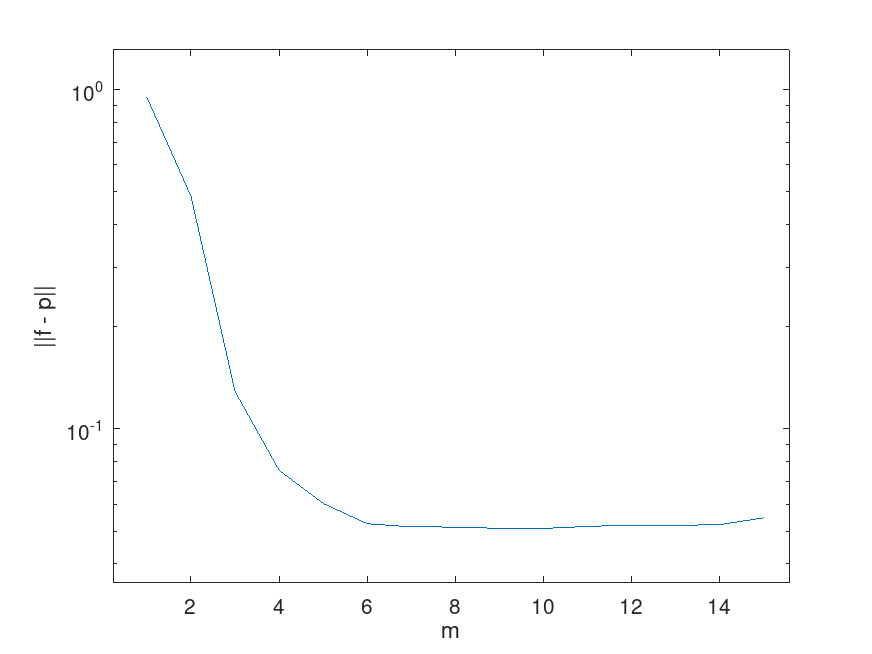
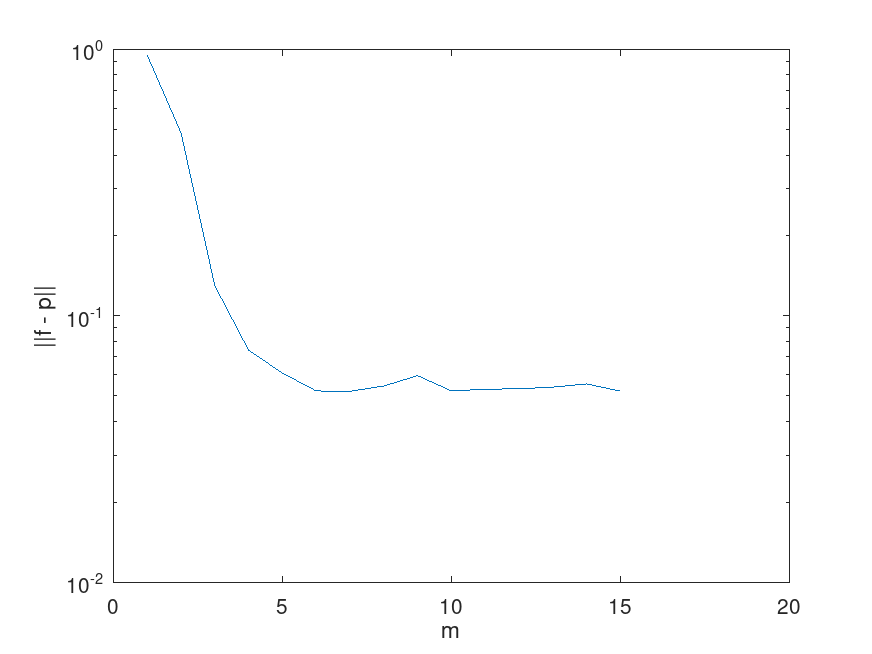
Change plot to semilogy where is necessary

diff --git a/capitolo5/es27.tex b/capitolo5/es27.tex
@@ -9,8 +9,7 @@ e tolleranze $tol$ = $10^{-2}$, $10^{-3}$, $10^{-4}$, $10^{-5}$, $10^{-6}$.
 \newline \textbf{Soluzione:}
 
 Eseguendo lo script \nameref{cod:27} si ottengono i risultati contenuti nella
-tabella \ref{tab:27} e nella figura \ref{fig:es27}, che rappresenta il
-logaritmo naturale di numero di valutazioni funzionali.
+tabella \ref{tab:27} e nella figura \ref{fig:es27}.
 \begin{table}[ht]
     \centering
     \renewcommand\arraystretch{2}
@@ -35,7 +34,7 @@ logaritmo naturale di numero di valutazioni funzionali.
 \begin{figure}[!ht]
     \centering
     \includegraphics[width=16cm,height=10cm,keepaspectratio]{capitolo5/es27_figure.png}
-    \caption{Logaritmo di numero di valutazioni funzionali per funzione \lstinline{composita} rispetto a grado}
+    \caption{Numero di valutazioni funzionali rispetto a grado per funzione \lstinline{composita}}
     \label{fig:es27}
 \end{figure}
 \FloatBarrier

diff --git a/capitolo5/es30.tex b/capitolo5/es30.tex
@@ -8,8 +8,7 @@ con tolleranze $tol$ = $10^{-2}$, $10^{-3}$, $10^{-4}$, $10^{-5}$, $10^{-6}$.
 \newline \textbf{Soluzione:}
 
 Eseguendo lo script \nameref{cod:30} si ottengono i risultati contenuti nella
-tabella \ref{tab:30} e nella figura \ref{fig:es30}, che rappresenta il
-logaritmo naturale di numero di valutazioni funzionali.
+tabella \ref{tab:30} e nella figura \ref{fig:es30}.
 \begin{table}[ht]
     \centering
     \renewcommand\arraystretch{2}
@@ -28,7 +27,7 @@ logaritmo naturale di numero di valutazioni funzionali.
 \begin{figure}[!ht]
     \centering
     \includegraphics[width=16cm,height=10cm,keepaspectratio]{capitolo5/es30_figure.png}
-    \caption{Logaritmo di numero di valutazioni funzionali per approssimare l'integrale}
+    \caption{Numero di valutazioni funzionali rispetto tolleranza per approssimare l'integrale}
     \label{fig:es30}
 \end{figure}
 \FloatBarrier

diff --git a/capitolo5/es25.tex b/capitolo5/es25.tex
@@ -7,7 +7,7 @@ tabulando (in modo significativo) il corrispondente errore di quadratura (risolv
 \newline \textbf{Soluzione:}
 
 Eseguendo lo script \nameref{cod:25} si ottengono i risultati contenuti nella tabella \ref{tab:25}
-e nella figura \ref{fig:es25}, che rappresenta il logaritmo di errore di interpolazione.
+e nella figura \ref{fig:es25}.
 \begin{table}[ht]
     \centering
     \renewcommand\arraystretch{2}
@@ -32,7 +32,7 @@ e nella figura \ref{fig:es25}, che rappresenta il logaritmo di errore di interpo
 \begin{figure}[!ht]
     \centering
     \includegraphics[width=16cm,height=10cm,keepaspectratio]{capitolo5/es25_figure.png}
-    \caption{Logaritmo naturale di errori di quadratura}
+    \caption{Errori di quadratura rispetto a grado per $I(f)$}
     \label{fig:es25}
 \end{figure}
 \FloatBarrier

diff --git a/capitolo4/es21.tex b/capitolo4/es21.tex
@@ -17,9 +17,7 @@ equidistanti nell'intervallo $[x0, xn]$.
 Eseguendo lo script \nameref{cod:21} si ottengono i risultati contenuti nella
 tabella \ref{tab:21_equidistant} e nella figura \ref{fig:es21_equidistant} per
 i valori equidistanti, e nella tabella \ref{tab:21_chebyshev} con figura
-\ref{fig:es21_chebyshev} per i punti di Chebyshev. Le figure rappresentano
-il logaritmo naturale di errore di interpolazione data eccessiva differenza tra
-alcuni valori.
+\ref{fig:es21_chebyshev} per i punti di Chebyshev.
 \begin{figure}[!ht]
     \centering
     \includegraphics[width=16cm,height=10cm,keepaspectratio]{capitolo4/es21_figure_equidistant.png}

diff --git a/capitolo4/es22.tex b/capitolo4/es22.tex
@@ -11,8 +11,7 @@ per $n = 5, 10, 15, 20, \dots, 50$. Commentare i risultati ottenuti.
 \newline \textbf{Soluzione:}
 
 Eseguendo lo script \nameref{cod:22} si ottengono i risultati contenuti nella tabella \ref{tab:22}
-e nella figura \ref{fig:es22}, che rappresenta il logaritmo di errore di interpolazione data
-eccessiva differenza tra alcuni valori.
+e nella figura \ref{fig:es22}.
 \begin{table}[ht]
     \centering
     \renewcommand\arraystretch{2}

diff --git a/matlab/capitolo4/es21.m b/matlab/capitolo4/es21.m
@@ -53,9 +53,9 @@ method = ["Lagrange"; "Newton"; "Hermite"; "spline0"; "spline"];
 for space = [EQU CHEB]
 
     figure();
-    plot(n, log(error_list(:, space:2:end)), "-o");
+    semilogy(n, error_list(:, space:2:end), "-o");
     xlabel('numero di punti');
-    ylabel('errore = e^{x}');
+    ylabel('errore');
     legend(method, 'Location', 'northwest');
 
 end

diff --git a/matlab/capitolo4/es22.m b/matlab/capitolo4/es22.m
@@ -31,9 +31,9 @@ end
 
 figure(1);
 method = ["spline0 sin"; "spline sin"; "spline0 cos"; "spline cos"];
-plot(n, log(error_list), "-o");
+semilogy(n, error_list, "-o");
 xlabel('numero di punti');
-ylabel('errore = e^{x}');
+ylabel('errore');
 legend(method, 'Location', 'southwest');
 
 disp(error_list);

diff --git a/matlab/capitolo5/es30.m b/matlab/capitolo5/es30.m
@@ -15,7 +15,7 @@ end
 disp(nevals);
 
 figure();
-plot(tols, log(nevals'), '-o');
+semilogy(tols, nevals', '-o');
 xlabel('toleranza');
-ylabel('iterazioni = e^{x}');
+ylabel('iterazioni');
 legend(['adattivo trapezi'; 'adattivo Simpson']);

diff --git a/matlab/capitolo5/es27.m b/matlab/capitolo5/es27.m
@@ -19,7 +19,7 @@ end
 disp(nevals);
 
 figure();
-plot(grades, log(nevals'), '-o');
+semilogy(grades, nevals', '-o');
 xlabel('grado');
-ylabel('iterazioni = e^{x}');
+ylabel('iterazioni');
 legend(num2str(tols'));

diff --git a/matlab/capitolo5/es25.m b/matlab/capitolo5/es25.m
@@ -29,8 +29,8 @@ for weight = weights
 end
 
 figure();
-plot(n_list, log(errors), '-o');
+semilogy(n_list, errors, '-o');
 xlabel("grado");
-ylabel('errore = e^{x}');
+ylabel('errore');
 
 disp(errors);
